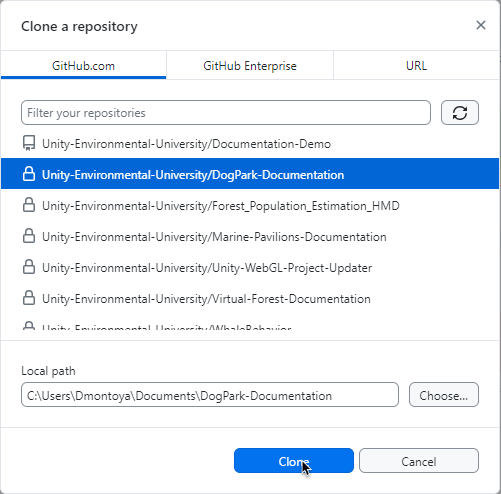
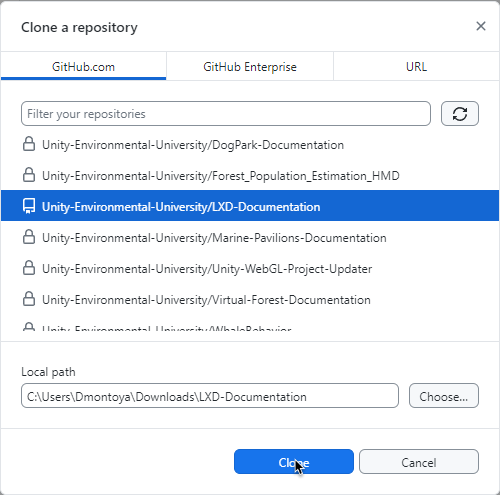
Fixing Links & Images
Updated Links, References, & Images to match the rename

diff --git a/Writerside/topics/Home.md b/Writerside/topics/Home.md
@@ -20,7 +20,7 @@ Introduce learning designers to JetBrains Writerside by creating and previewing 
 2. Open & Install the downloaded GitHub Desktop Application.
     - Once opened, Log into the application with your new GitHub account.
 ---
-> It may be useful to have [_**This Page**_](https://github.com/Unity-Environmental-University/documentation-demo) 
+> It may be useful to have [_**This Page**_](https://github.com/Unity-Environmental-University/lxd-documentation) 
 > open, as we may reference it throughout the playground.
 > {style=note}
 
@@ -29,7 +29,7 @@ Introduce learning designers to JetBrains Writerside by creating and previewing 
 ![github-clone-project.png](github-clone-project.png){width="400" border-effect="line" thumbnail="true"}
 >_You can click the image to make it bigger!_
 >{style=note}
-2. Select `Unity-Environmental-University/Documentation-Demo` and choose where you would like to download the project to.
+2. Select `Unity-Environmental-University/LXD-Documentation` and choose where you would like to download the project to.
 ![github-clone-location.png](github-clone-location.png){width="400" border-effect="line" thumbnail="true"}
 3. Open JetBrains Writerside on your computer.
 4. Opening the project:
